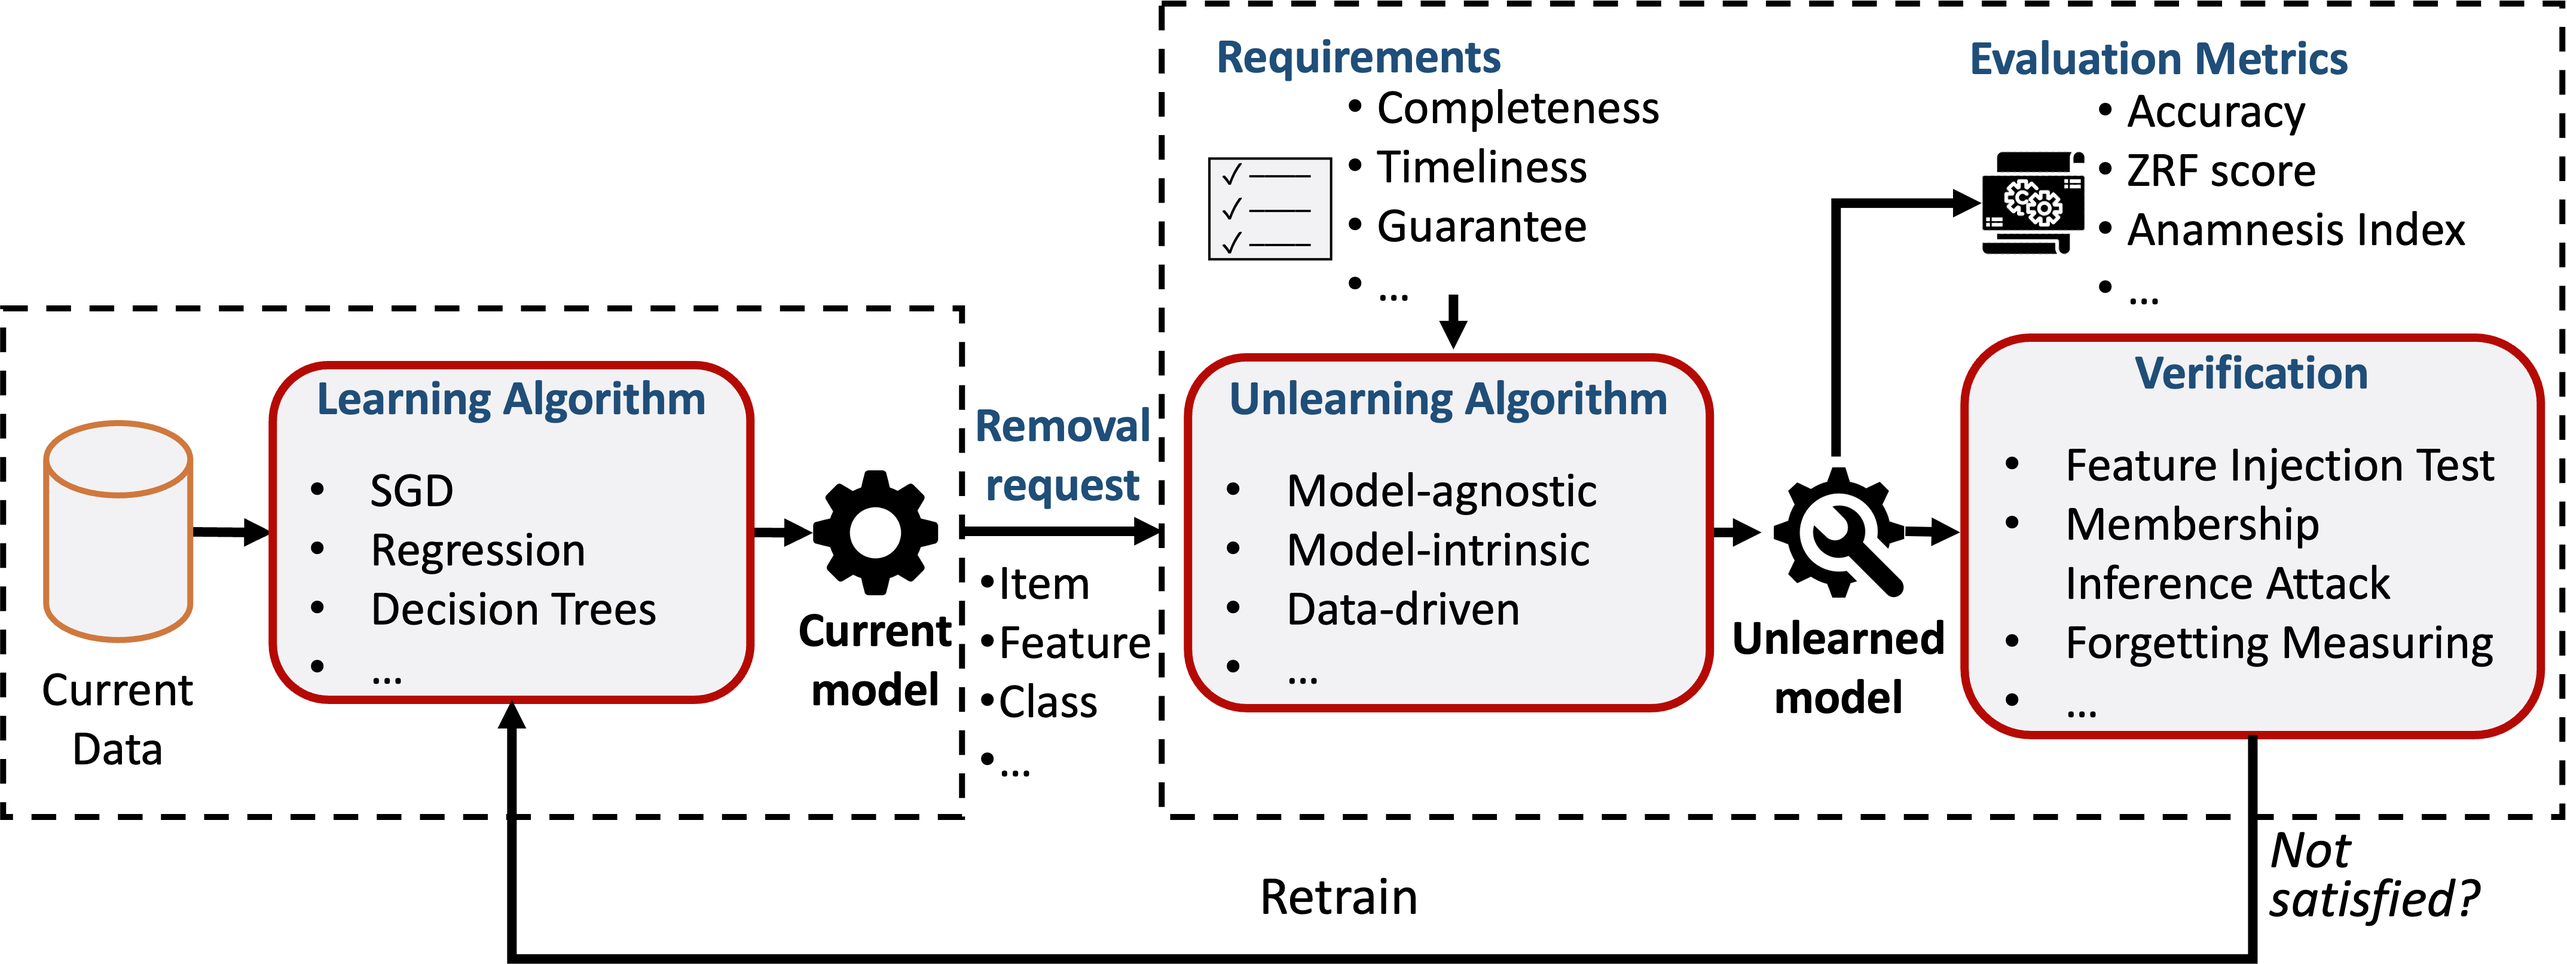
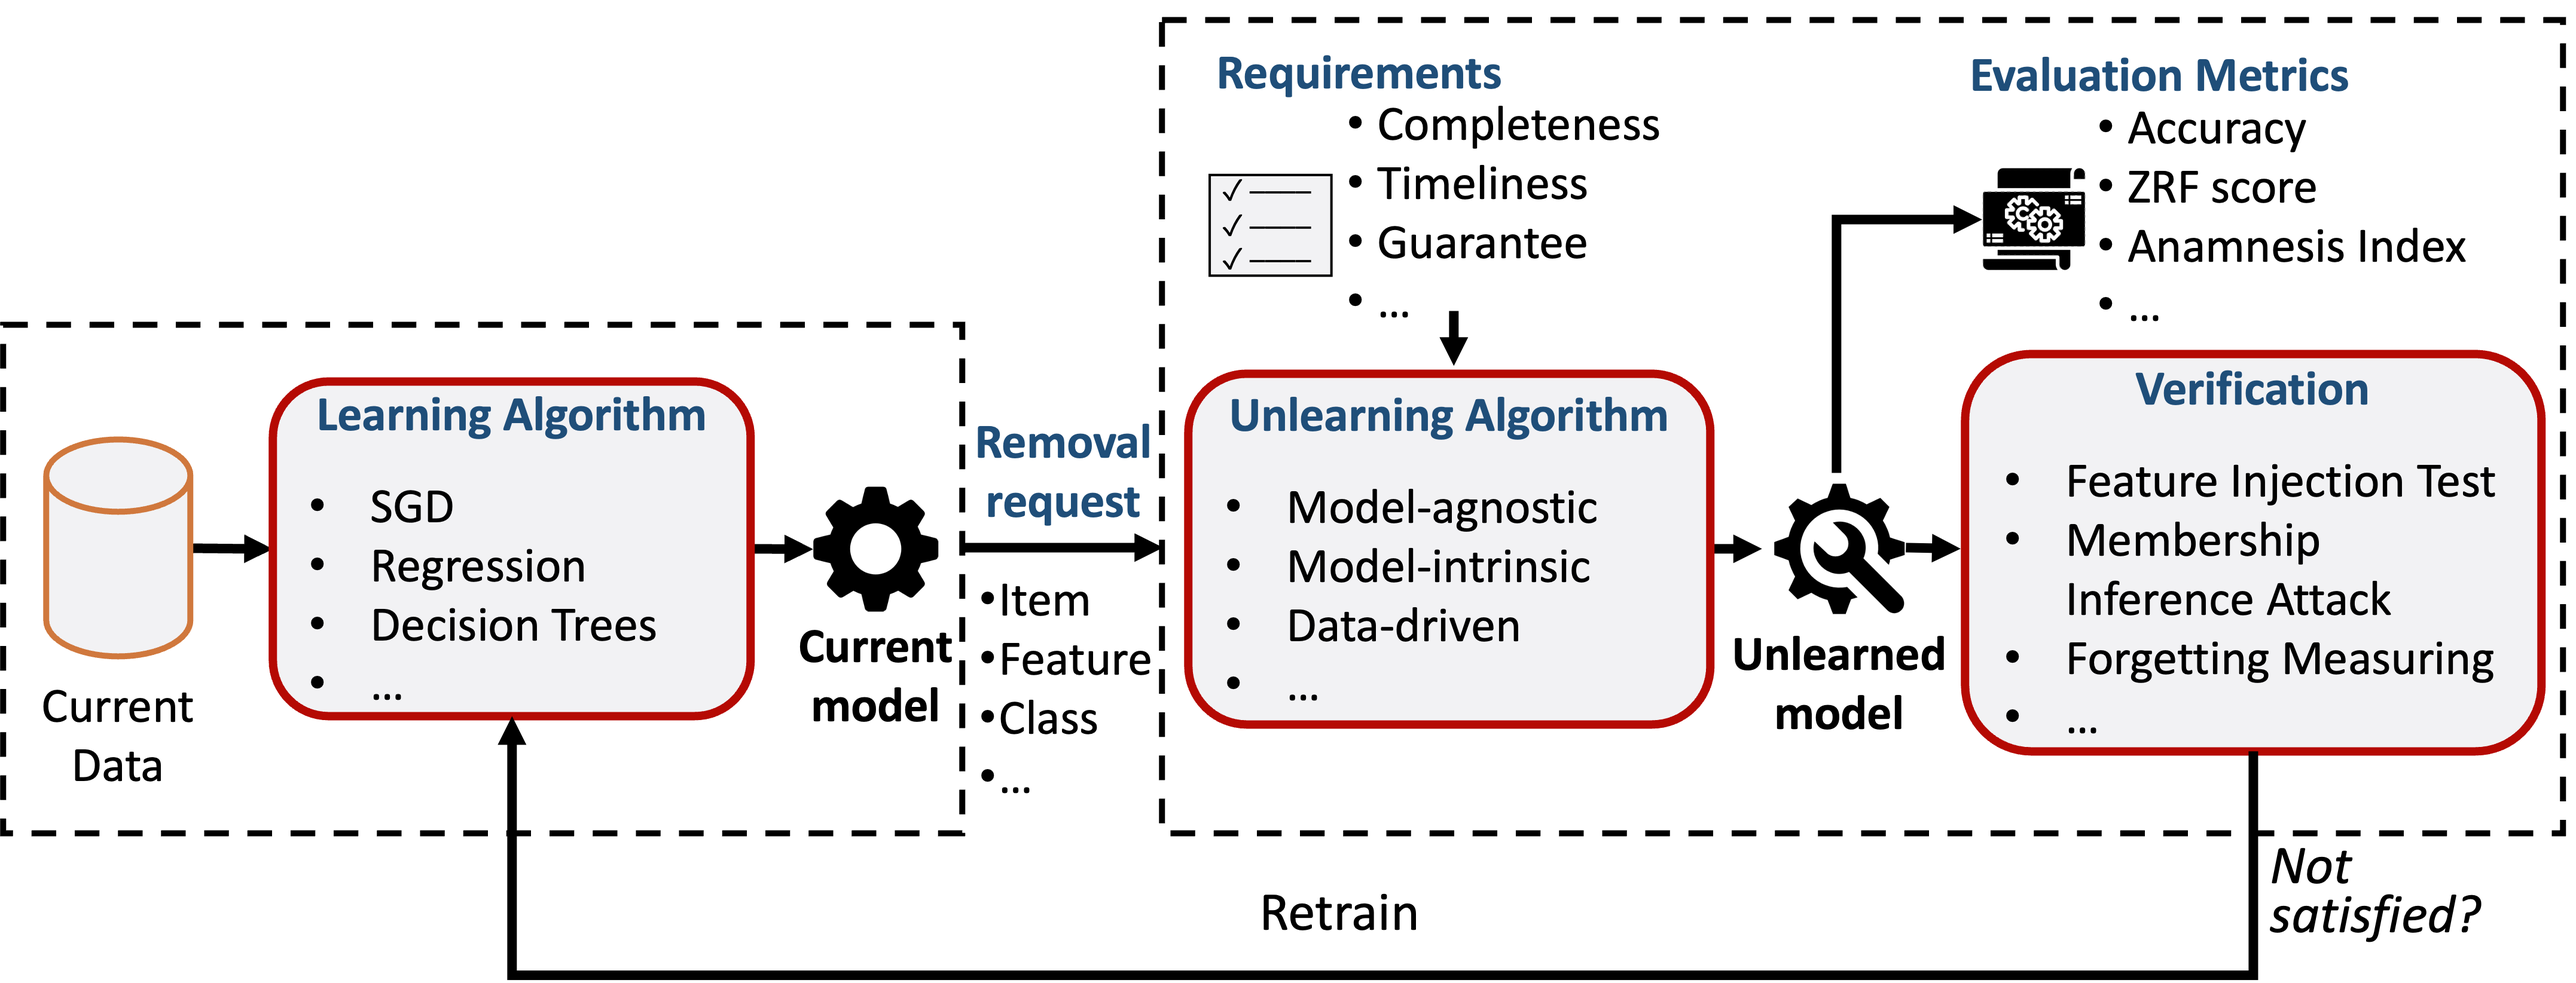
change framework pic, fix link

diff --git a/README.md b/README.md
@@ -1,11 +1,13 @@
 # Awesome-Machine-Unlearning
 
-A compilation of academic articles, published methodology, and datasets on the subject of **machine unlearning**.
+[![Awesome](https://awesome.re/badge-flat.svg)](https://awesome.re)
+
+A compilation of academic articles, published methodology, and datasets on the subject of machine unlearning.
 
 - [Awesome-Machine-Unlearning](#awesome-machine-unlearning)
   - [ A Framework of Machine Unlearning](#a-framework-of-machine-unlearning)
   - [Surveys](#surveys)
-  - [Model-agnostic](#anomalous-node-detection)
+  - [Model-agnostic](#model-agnostic)
   - [Model-intrinsic](#model-intrinsic)
   - [Data-Driven](#data-driven)
   - [Datasets](#datasets)
@@ -67,6 +69,7 @@ A compilation of academic articles, published methodology, and datasets on the s
 - ACM https://github.com/XiaoxiaoMa-MQ/Awesome-Deep-Graph-Anomaly-Detection/tree/main/Datasets
 - Flickr https://github.com/XiaoxiaoMa-MQ/Awesome-Deep-Graph-Anomaly-Detection/tree/main/Datasets
 
+----------
 **Disclaimer**
 
 If you have any questions or updated news on ..., please feel free to contact us.
